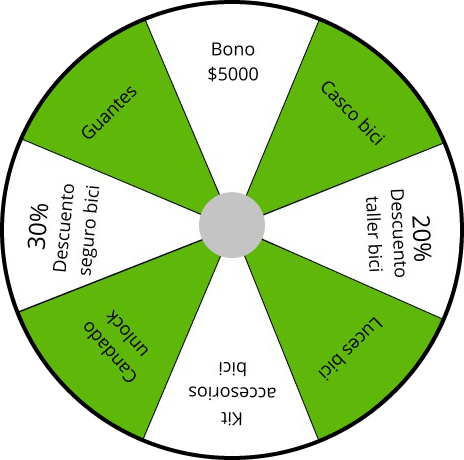
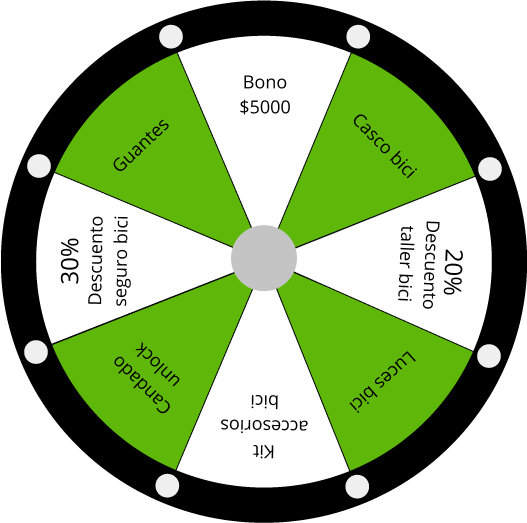
adding wheels and arrow almosst final

diff --git a/uber-app/src/components/Wheel.jsx b/uber-app/src/components/Wheel.jsx
@@ -3,7 +3,7 @@ import wheel from '../images/wheel.png'
 import arrow from '../images/arrow.png'
 const Wheel = (props) => {
 return(
-    <section>
+    <section className="container-main">
         <h1>Puntos:</h1>
         <div className="img-arrow">
            <img 
@@ -28,12 +28,21 @@ return(
         ref= {props.wheelRef}
             />
         </div>
-        <div className="container-button_spin">
-            <div><
-                button disabled = {props.animatedWheel} onClick={props.spinWheel}>Girar</button>
+        <div className="container-buttons_spin">
+            <div className= "container-buttons">
+                <button 
+                disabled = {props.animatedWheel} 
+                onClick={props.spinWheel} 
+                className = "btn-spin"
+                >Girar
+                </button>
                 </div>
-            <div>
-                <button  onClick={props.unlockSpin}>Habilitar</button>
+            <div className= "container-buttons">
+                <button  
+                onClick={props.unlockSpin}
+                className = "btn-spin"
+                >Habilitar
+                </button>
                 </div>
         </div>
     </section>

diff --git a/uber-app/src/App.css b/uber-app/src/App.css
@@ -1,5 +1,12 @@
+.container-main{
+  display: flex;
+  justify-content: center;
+  align-items: center;
+  flex-direction: column;
+}
+
 .img-responsive{
-  max-width: 100%;
+   max-width: 80%;
   height: auto;
 }
 .container-wheel{
@@ -8,11 +15,15 @@
   display:flex;
   justify-content: center;
   align-items: center;
-  margin: 20px;
+  margin: 5px;
 }
-.container-button_spin{
+.container-buttons_spin{
   display: flex;
   justify-content: center;
+  margin-top:10px;
+}
+.container-buttons{
+  margin: 0 15px;
 }
 .img-wheel{
    transition: all 4s ease;
@@ -21,10 +32,15 @@
 
 .img-arrow{
   position: relative;
-  top: 45px;
+  top: 42px;
   z-index: -1;
   display: flex;
     justify-content: center;
+}
+.btn-spin{
+  border-radius: 10%;
+  border: 1px solid blue;
+  
 }
 
 @keyframes infinite-spinning {
